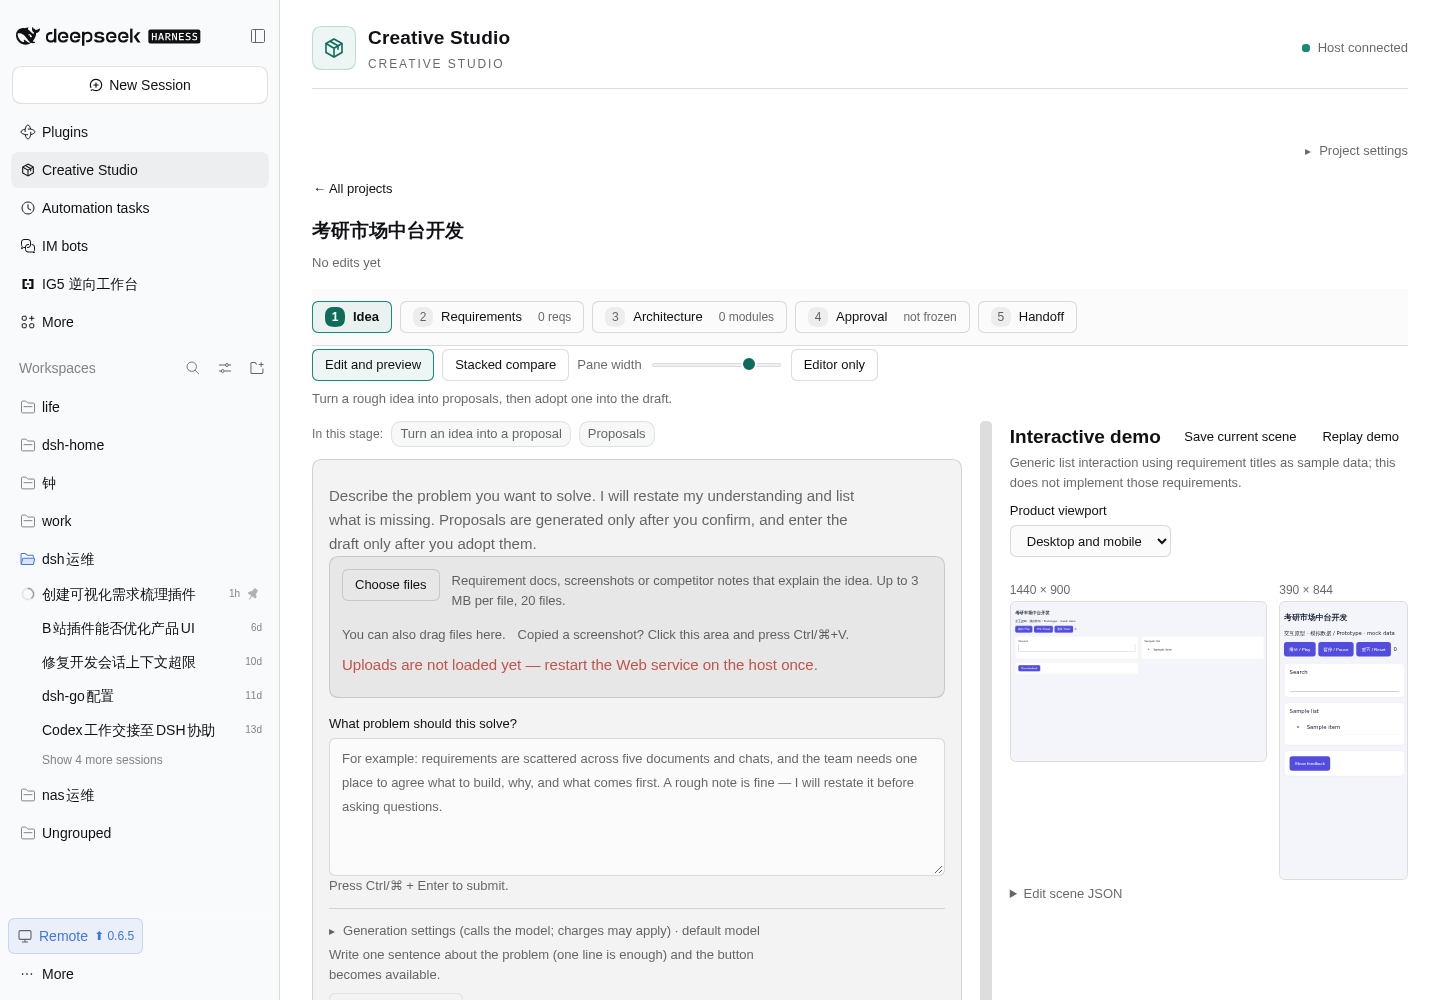
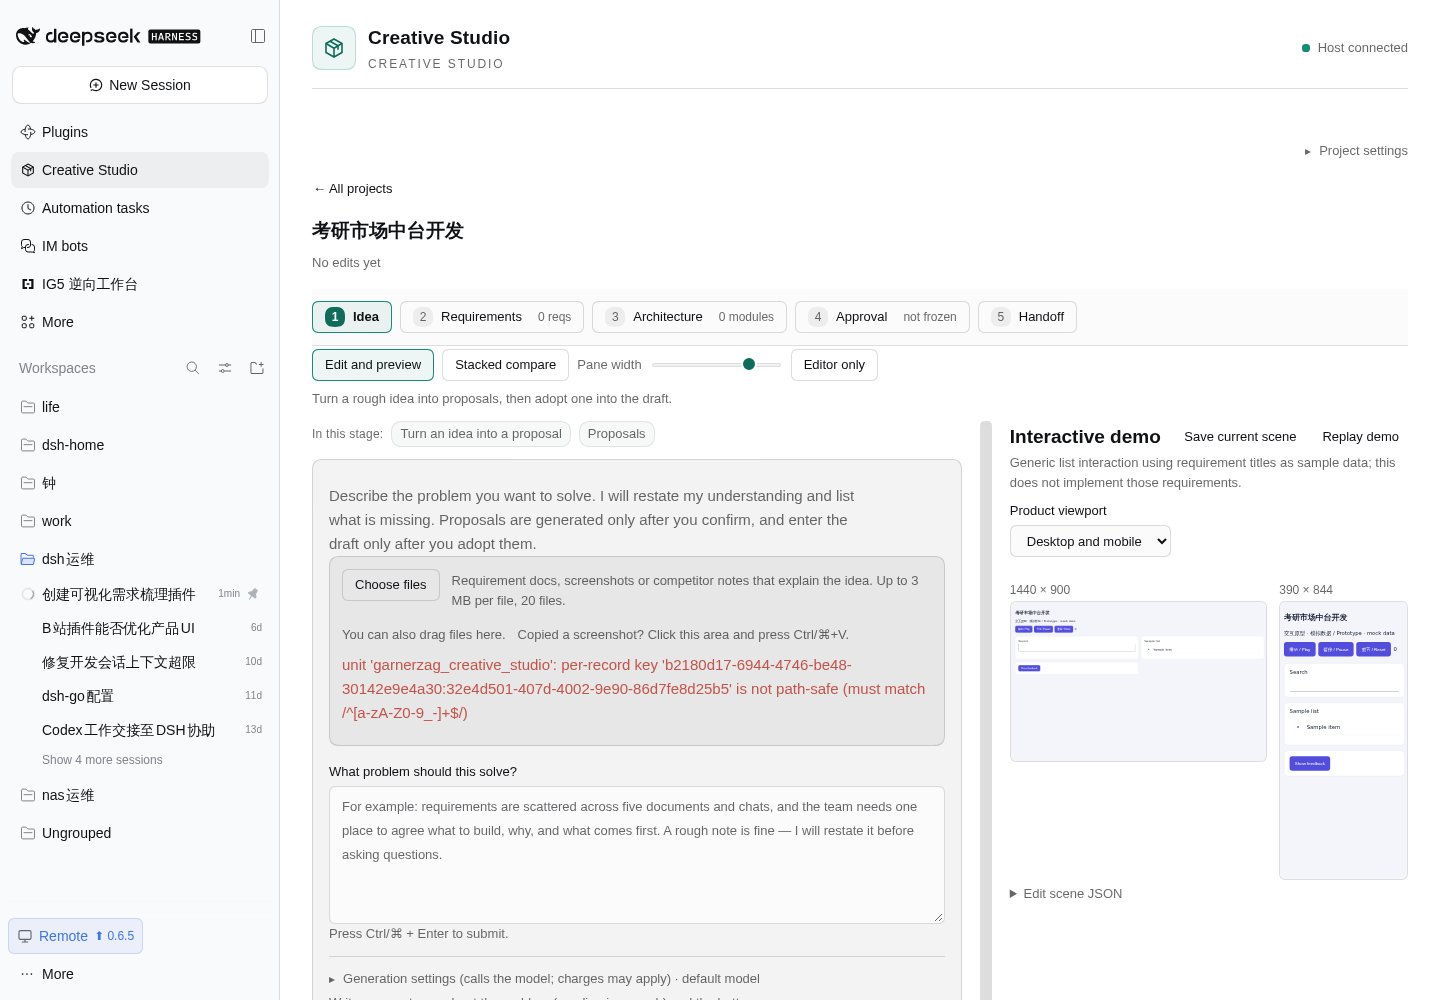
fix: 附件存储键改为下划线连接（per-record 键必须路径安全）；上传载荷先校验 base64 与大小

Changed region(s): [[0.2188, 0.651, 0.6562, 0.992]]

diff --git a/test/host/attachments.test.ts b/test/host/attachments.test.ts
@@ -3,7 +3,8 @@ import assert from 'node:assert/strict';
 import { createProject } from '../../src/domain/project.js';
 import { addAttachment, removeAttachment, attachmentKind } from '../../src/domain/attachments.js';
 import { ATTACHMENT_CHUNK_BYTES, MAX_ATTACHMENTS, MAX_ATTACHMENT_BYTES } from '../../src/domain/attachment-schema.js';
-import { AttachmentStore, type StoredAttachment } from '../../src/host/attachment-store.js';
+import { AttachmentStore, attachmentKey, type StoredAttachment } from '../../src/host/attachment-store.js';
+import { decodeUpload } from '../../src/host/attachment-upload.js';
 
 const meta = (id: string, name = 'brief.md', mime = 'text/markdown') => ({ id, name, mime, size: 12, createdAt: '2026-11-17T00:00:00Z' });
 
@@ -79,4 +80,27 @@ test('multi-chunk reads reassemble exactly the bytes that were stored', async ()
   }
   assert.equal(Buffer.concat(parts).equals(bytes), true);
   assert.equal(store.chunk('p', 'a', 0, 256 * 1024).total, bytes.length);
+});
+
+test('storage keys stay path-safe and upload payloads are validated before writing', async () => {
+  const rows = new Map<string, StoredAttachment>();
+  const table = {
+    get: (id: string) => rows.get(id),
+    put: async (id: string, row: StoredAttachment) => {
+      assert.match(id, /^[a-zA-Z0-9_-]+$/, 'per-record keys must be path-safe');
+      rows.set(id, structuredClone(row));
+    },
+    entries: () => rows.entries(),
+    delete: async (id: string) => rows.delete(id),
+  };
+  const store = new AttachmentStore(table);
+  const projectId = 'b2180d17-6944-4746-be48-30142e9e4a30';
+  const attachmentId = 'd4373246-e8de-480d-b1b4-c0da3acf5293';
+  assert.equal(attachmentKey(projectId, attachmentId), `${projectId}__${attachmentId}`);
+  await store.put(projectId, attachmentId, Buffer.from('hello'));
+  assert.equal(Buffer.from(store.chunk(projectId, attachmentId, 0, 16).base64, 'base64').toString(), 'hello');
+  assert.throws(() => decodeUpload('not base64!!'), /ATTACHMENT_ENCODING/);
+  assert.throws(() => decodeUpload(''), /ATTACHMENT_EMPTY/);
+  assert.throws(() => decodeUpload(Buffer.alloc(MAX_ATTACHMENT_BYTES + 1).toString('base64')), /ATTACHMENT_TOO_LARGE/);
+  assert.equal(decodeUpload(Buffer.from('ok').toString('base64')).toString(), 'ok');
 });

diff --git a/src/host/index.ts b/src/host/index.ts
@@ -14,6 +14,7 @@ import { requireUserAuthority } from './authority.js';
 
 import {HandoffStore,StoredHandoffSchema,type StoredHandoff} from './handoff-store.js';
 import {AttachmentStore,StoredAttachmentSchema,type StoredAttachment} from './attachment-store.js';
+import {decodeUpload} from './attachment-upload.js';
 import {MAX_ATTACHMENT_BYTES} from '../domain/attachment-schema.js';
 import {checkHandoff} from '../domain/handoff.js';
 import type { AttachmentChunk, BriefInfo, JobReply, ModelCatalogView, ModelChoice, WorkspaceOption,HandoffInfo,HandoffChunk,HandoffReadinessResult,DemoSceneData, StudioHealth, ProjectHead, ProjectSummary, ProjectSnapshot, RequirementChange, ArchitectureChange, ProposalInput, ReferenceChange, FeatureChange } from '../types.js';
@@ -110,9 +111,7 @@ export default class CreativeStudio extends TypertRemoteService {
     if(!attachments)throw new Error('STORAGE_NOT_READY');
     const current=store.get(id);
     if(current.projectRevision!==expectedProjectRevision||current.contentRevision!==expectedContentRevision)throw new Error('CONFLICT');
-    const bytes=Buffer.from(input.base64,'base64');
-    if(!bytes.length)throw new Error('ATTACHMENT_EMPTY');
-    if(bytes.length>MAX_ATTACHMENT_BYTES)throw new Error('ATTACHMENT_TOO_LARGE');
+    const bytes=decodeUpload(input.base64);
     const attachmentId=randomUUID();
     await attachments.put(id,attachmentId,bytes);
     try{

diff --git a/src/host/attachment-upload.ts b/src/host/attachment-upload.ts
@@ -1,0 +1,12 @@
+import { MAX_ATTACHMENT_BYTES } from '../domain/attachment-schema.js';
+
+const BASE64 = /^[A-Za-z0-9+/]*={0,2}$/;
+
+/** Validates the wire payload before anything is written to storage. */
+export function decodeUpload(base64: string): Buffer {
+  if (typeof base64 !== 'string' || !BASE64.test(base64)) throw new Error('ATTACHMENT_ENCODING');
+  const bytes = Buffer.from(base64, 'base64');
+  if (bytes.length === 0) throw new Error('ATTACHMENT_EMPTY');
+  if (bytes.length > MAX_ATTACHMENT_BYTES) throw new Error('ATTACHMENT_TOO_LARGE');
+  return bytes;
+}

diff --git a/src/host/attachment-store.ts b/src/host/attachment-store.ts
@@ -17,7 +17,9 @@ interface AttachmentTable {
   entries?(): IterableIterator<[string, StoredAttachment]>;
 }
 
-const key = (projectId: string, attachmentId: string) => `${projectId}:${attachmentId}`;
+/** Per-record storage keys must be path-safe: no ':' or other separators. */
+export const attachmentKey = (projectId: string, attachmentId: string) => `${projectId}__${attachmentId}`;
+const key = attachmentKey;
 
 export class AttachmentStore {
   constructor(private readonly table: AttachmentTable) {}
